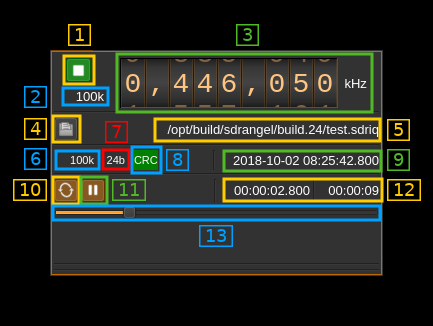
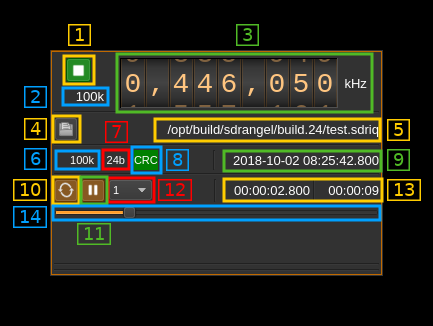
File Input: Updated documentation

diff --git a/sdrgui/readme.md b/sdrgui/readme.md
@@ -273,7 +273,7 @@ Use this combo to select which averaging mode is applied:
 
 <h4>4.6. Number of averaged samples</h4>
   
-Each FFT bin (squared magnitude) is averaged or max'ed over a number of samples. This combo allows selecting the number of samples between these values: 0 (no averaging), 2, 5, 10, 20, 50, 100, 200, 500, 1k (1000), 2k, 5k, 10k, 20k, 50k, 1e5 (100000), 2e5, 5e5, 1M (1000000). The tooltip mentions the resulting averaging period considering the baseband sample rate and FFT size.
+Each FFT bin (squared magnitude) is averaged or max'ed over a number of samples. This combo allows selecting the number of samples between these values: 1 (no averaging), 2, 5, 10, 20, 50, 100, 200, 500, 1k (1000), 2k, 5k, 10k, 20k, 50k, 1e5 (100000), 2e5, 5e5, 1M (1000000). The tooltip mentions the resulting averaging period considering the baseband sample rate and FFT size.
 Averaging reduces the noise variance and can be used to better detect weak continuous signals. The fixed averaging mode allows long time monitoring on the waterfall. The max mode helps showing short bursts that may appear during the "averaging" period.
 
 &#9758; Note: The spectrum display is refreshed every 50ms (20 FPS). Setting an averaging time above this value will make sure that a short burst is not missed particularly when using the max mode.

diff --git a/plugins/samplesource/filesource/readme.md b/plugins/samplesource/filesource/readme.md
@@ -96,11 +96,19 @@ Use this button to read in a loop or read only once
 
 This is the play/pause button
 
-<h3>12: Relative timestamp and record length</h3>
+<h3>12: Playback acceleration</h3>
+
+Use this combo to select play back acceleration to values of 1 (no acceleration), 2, 5, 10, 20, 50, 100, 200, 500, 1k (1000) times. This is useful on long recordings used in conjunction with the spectrum "Max" averaging mode in order to see the waterfall over a long period. Thus the waterfall will be filled much faster.
+
+&#9758; Note that this control is enabled only in paused mode.
+
+&#9888; The result when using channel plugins with acceleration is unpredictable. Use this tool to locate your signal of interest then play at normal speed to get proper demodulation or decoding.
+
+<h3>13: Relative timestamp and record length</h3>
 
 Left is the relative timestamp of the current pointer from the start of the record. Right is the total record time.
 
-<h3>13: Current pointer gauge</h3>
+<h3>14: Current pointer gauge</h3>
 
 This represents the position of the current pointer position in the complete recording. It can be used it paused mode to position the current pointer by moving the slider.
  
